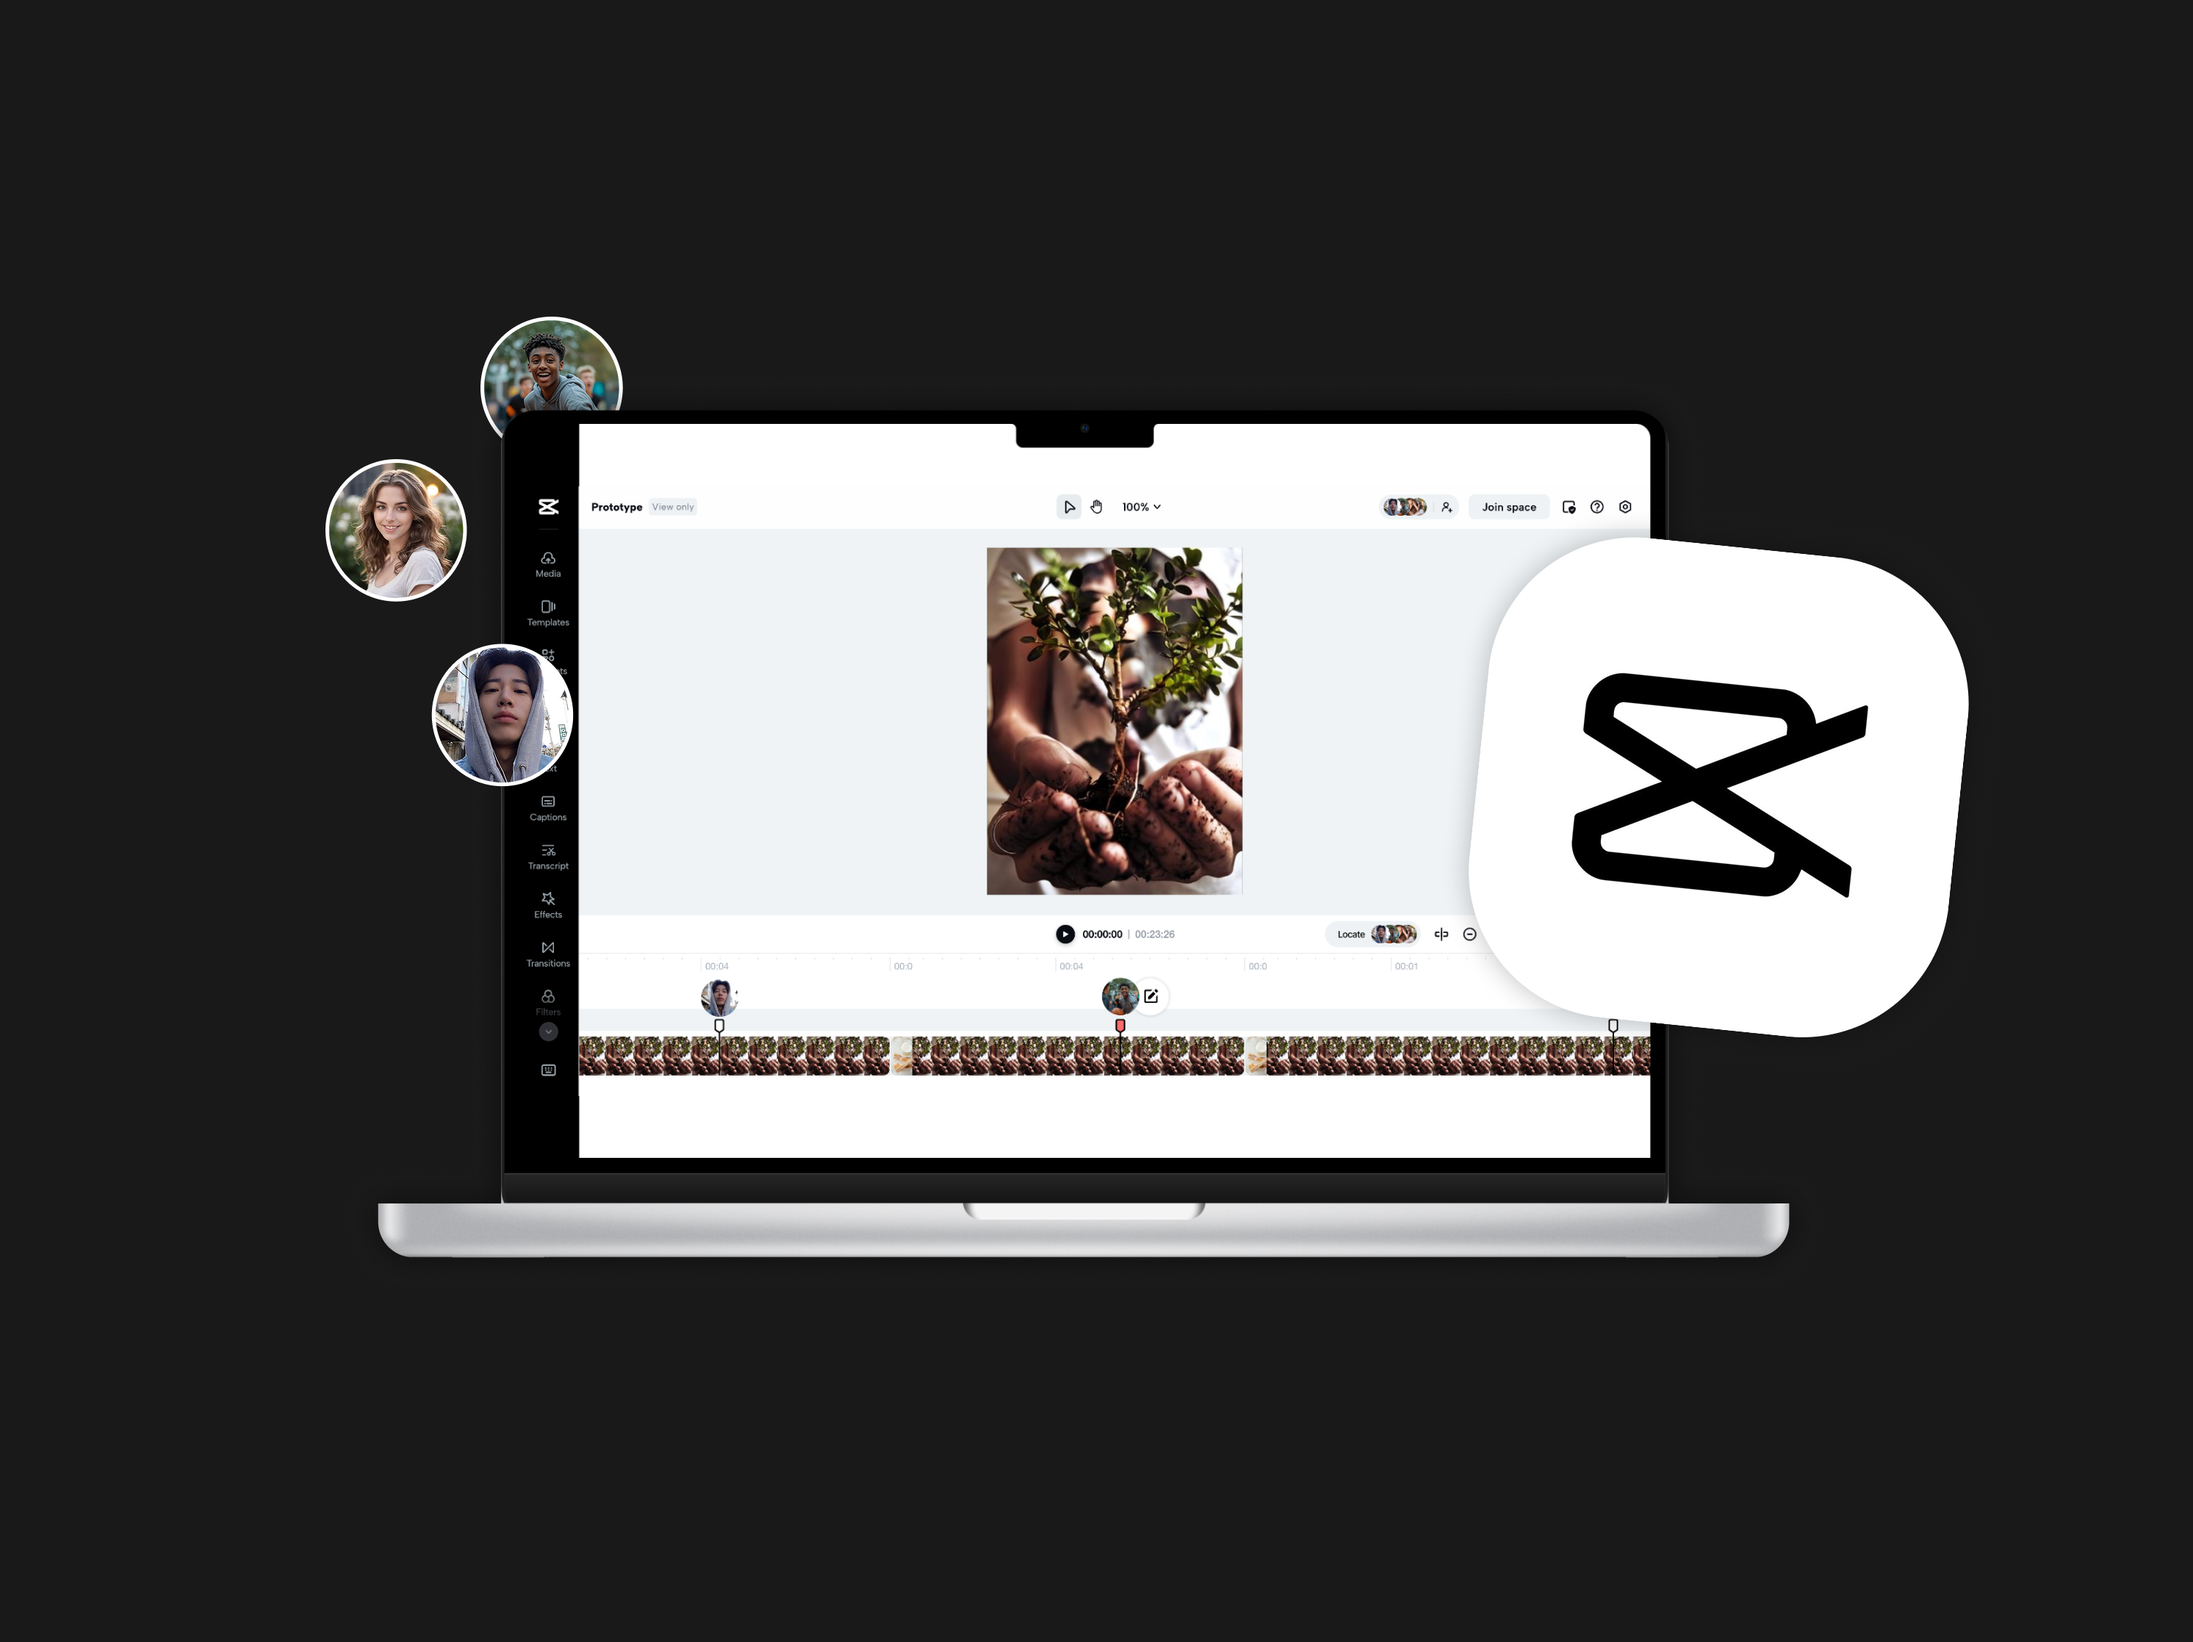
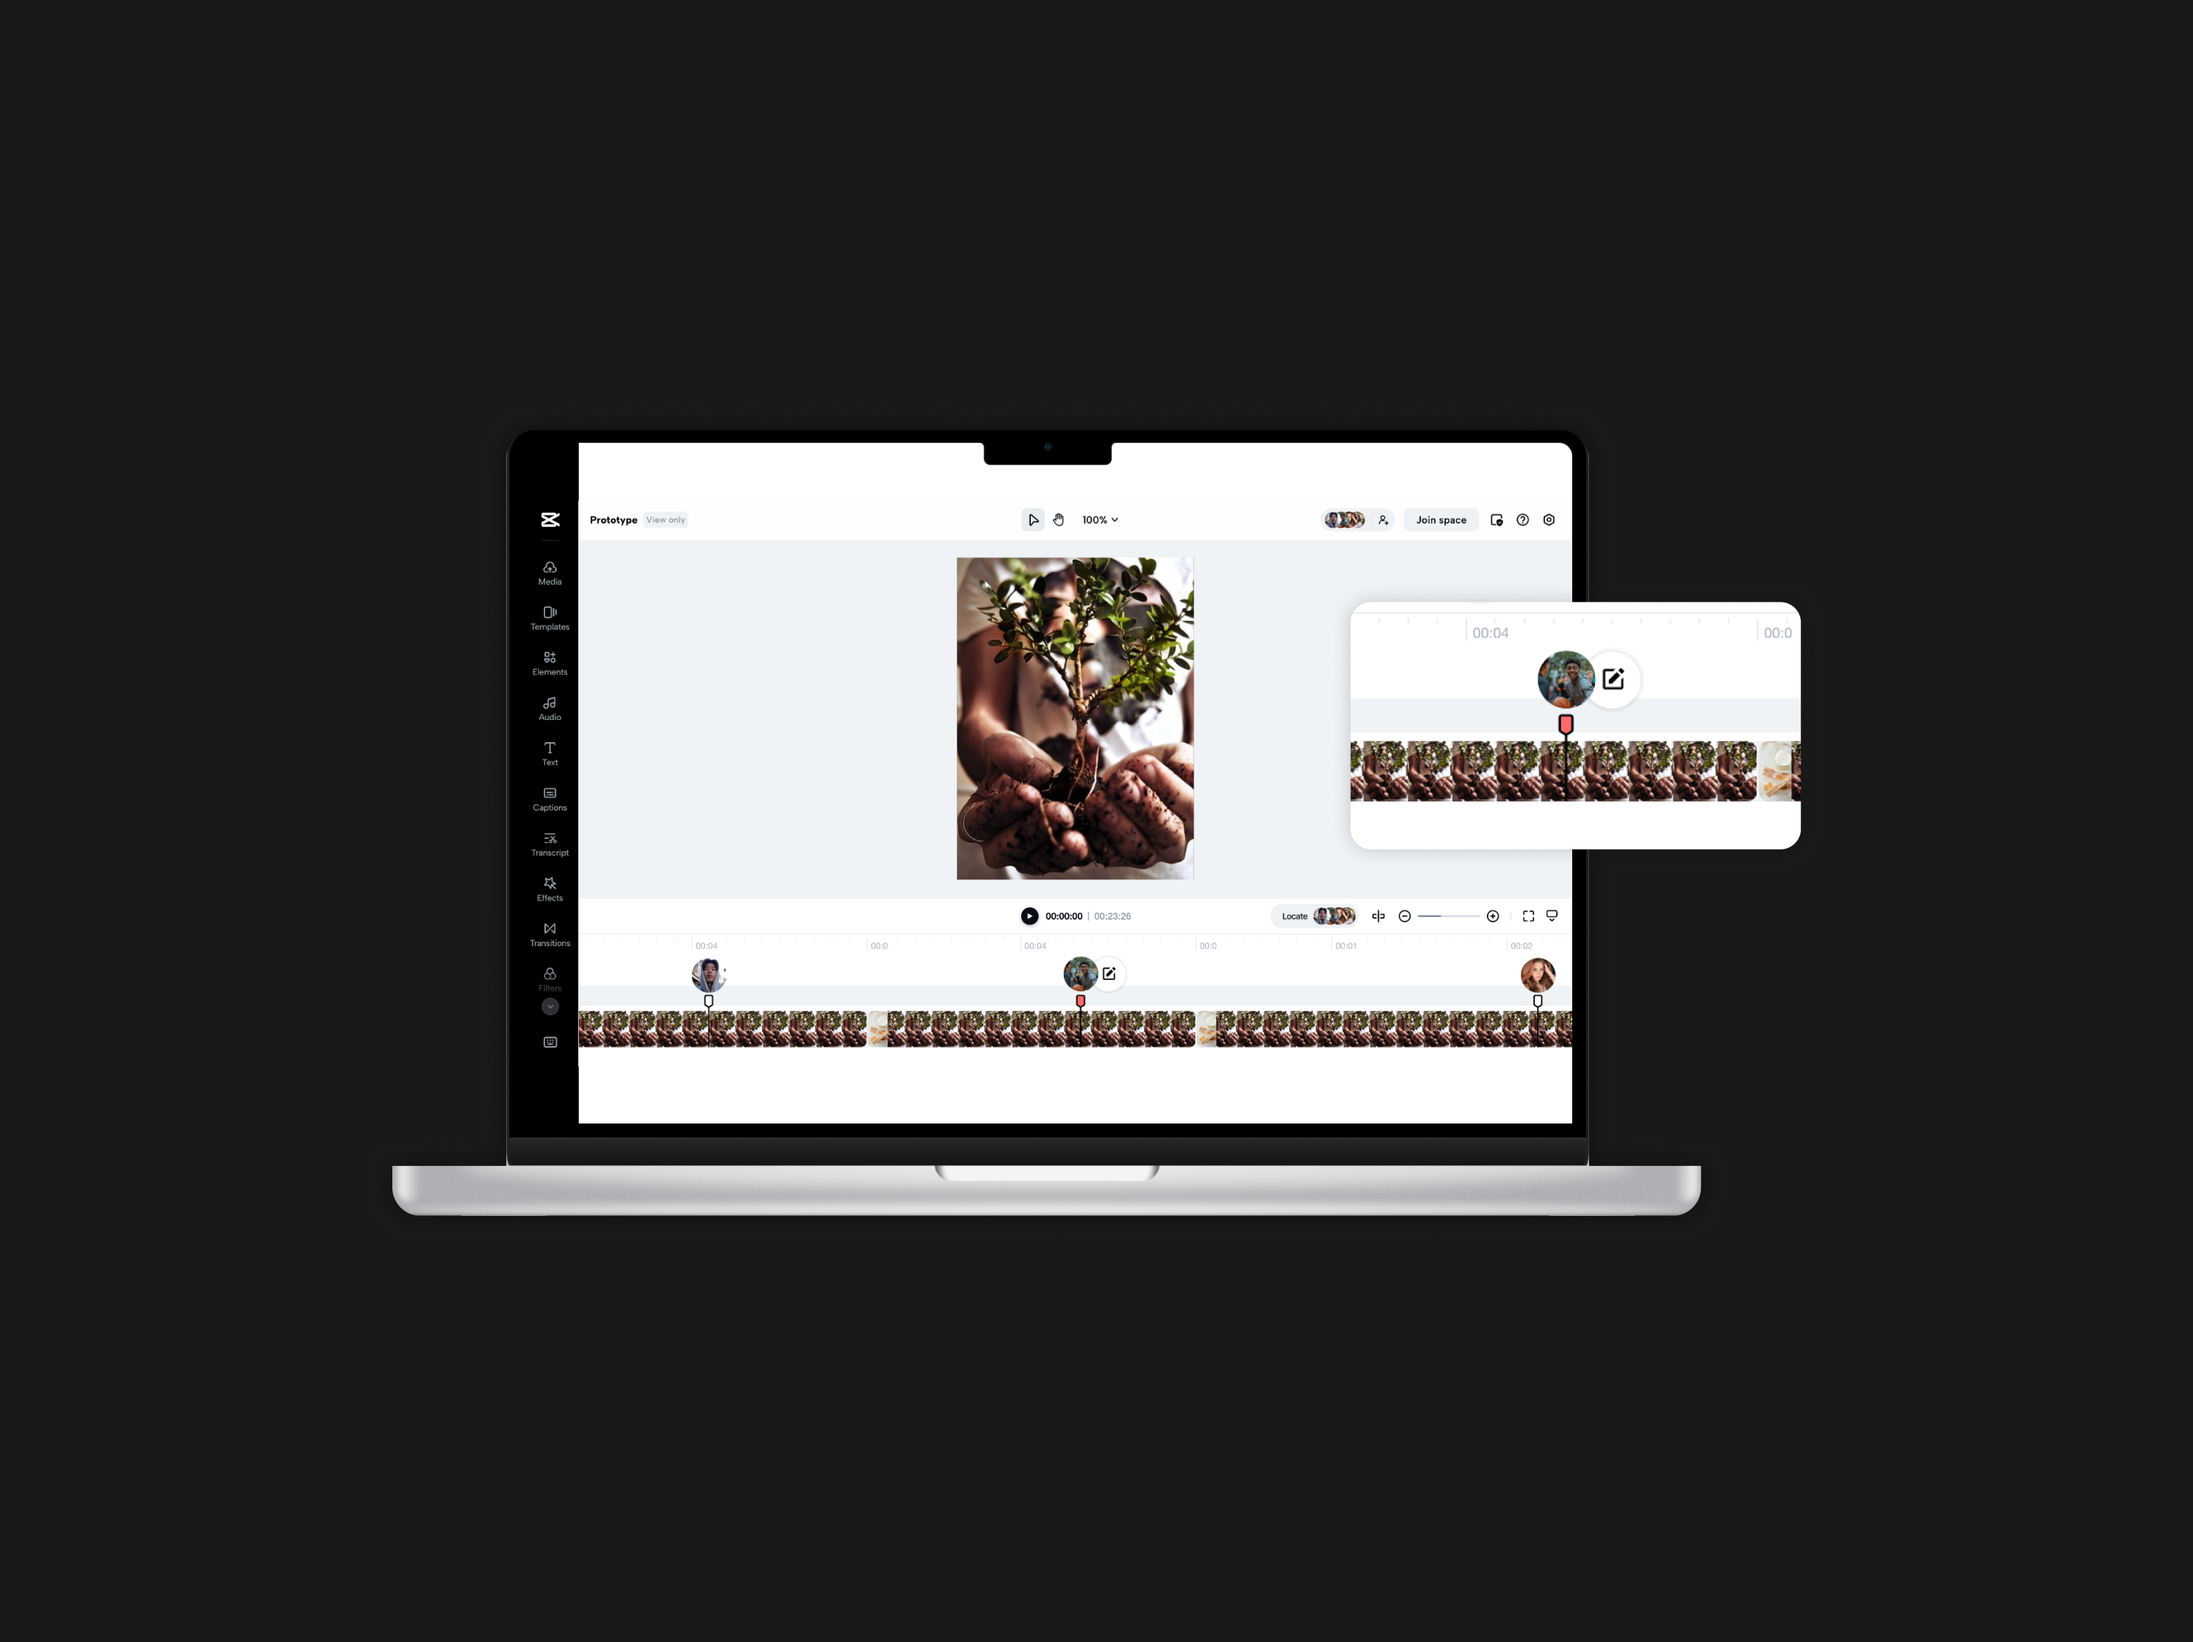
add CapCut

diff --git a/app/academics/page.tsx b/app/academics/page.tsx
@@ -39,10 +39,13 @@ export default function Academics() {
             <div className="grid grid-cols-1 gap-y-20">
                 <SlideUp>
                     {/* <ProjectVideo isLink="no" link="https://www.figma.com/proto/dZnu88TbS026t0KrGb9kzf/Spotify-multi-select-behaviour?page-id=0%3A1&node-id=1-2&viewport=138%2C146%2C0.41&t=m8N8cWUOcJMEwyGJ-1&scaling=contain&content-scaling=fixed" name="Spotify multi-select behaviour" desc="How can the interaction of selecting and dragging multiple songs while pressing CTRL (or CMD key on Mac), can be made more accessible and recognizable for new users during their onboarding experience?" vidSrc="/spotify.mp4" target="_blank" bgColor="#000000" className="w-3/4"/> */}
-                    <ProjectThumbnail isLink="no" link="https://www.figma.com/proto/dZnu88TbS026t0KrGb9kzf/Spotify-multi-select-behaviour?page-id=0%3A1&node-id=1-2&viewport=138%2C146%2C0.41&t=m8N8cWUOcJMEwyGJ-1&scaling=contain&content-scaling=fixed" name="Spotify's multi-select pattern" desc="How can the interaction of selecting and dragging multiple songs while pressing CTRL (or CMD key on Mac), can be made more accessible and recognizable for new users?" imageSrc="/spotify.png" imageSrcDark="/spotify.png" target="_blank"/>
+                    <ProjectThumbnail isLink="no" link="https://www.figma.com/proto/dZnu88TbS026t0KrGb9kzf/Spotify-multi-select-behaviour?page-id=0%3A1&node-id=1-2&viewport=138%2C146%2C0.41&t=m8N8cWUOcJMEwyGJ-1&scaling=contain&content-scaling=fixed" name="Spotify's multi-select pattern" desc="A more discoverable, beginner-friendly bulk-select pattern for Spotify Desktop, replacing the selecting + CTRL/CMD on Mac interaction." imageSrc="/spotify.png" imageSrcDark="/spotify.png" target="_blank"/>
                 </SlideUp>
                 <SlideUp>
                     <ProjectThumbnail isLink="no" link="https://drive.google.com/file/d/1d0jGR0QJN3mzwX6o9n0C54g6aHej0I9l/view" name="React Native app connecting to APIs and device features" desc="Memory Mate is a note-taking app for senior citizens, integrating APIs such as Apple Maps, Text-to-speech, and Firebase for backend database and user authentication." imageSrc="/memorymate.png" imageSrcDark="/memorymate.png" target="_blank"/>
+                </SlideUp>
+                <SlideUp>
+                    <ProjectThumbnail isLink="no" link="" name="Locating editor's live position on CapCut's timeline" desc="Team collaboration in CapCut Space can be improved by enabling view-only members to see the editor’s current timeline position in real time." imageSrc="/capcut.png" imageSrcDark="/capcut.png" target="_blank"/>
                 </SlideUp>
                 <SlideUp>
                     <ProjectThumbnail isLink="no" link="cardio" name="Create personalized running playlists with card.io" desc="Designed a Spotify feature that guides runners in creating personalized cardio playlists, helping them feel confident and in control." imageSrc="/cardiohi.png" imageSrcDark="/cardiohi.png" target="_self"/>
